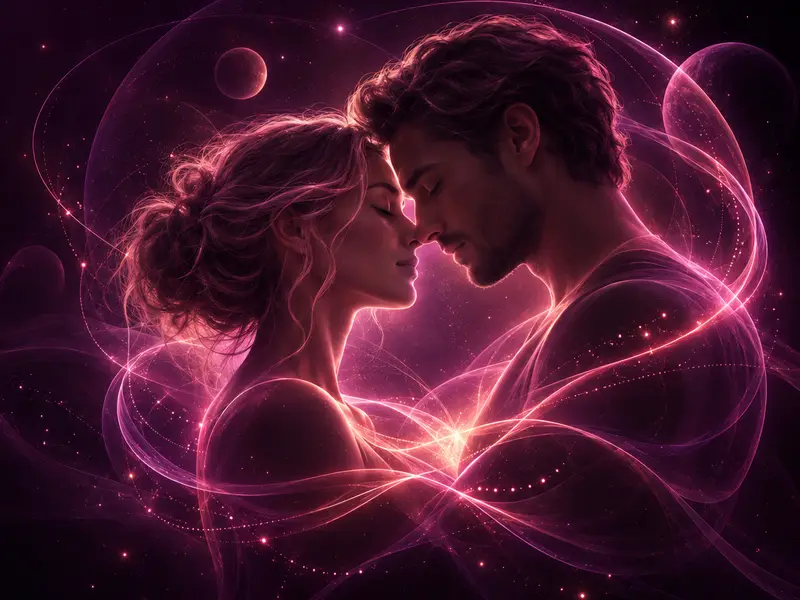
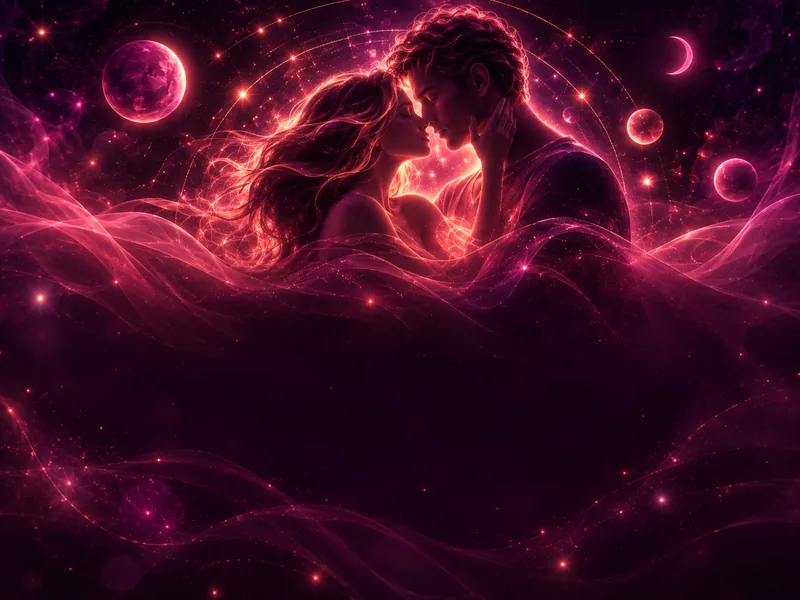
Showcase: new cover for Biohacking relationships, cover cache bump, sheet crop pinned to top for this cover, no meta line on not-yet programs

diff --git a/app.js b/app.js
@@ -1186,7 +1186,7 @@ function escapeHtml(s) {
 // ⚠ COVER_V ЖИВЁТ ВНУТРИ ЭТОГО ФАЙЛА, поэтому его бамп ТРЕБУЕТ бампа app.js?v= в
 // index.html. Иначе браузер отдаст закэшированный бандл со старым COVER_V и старую
 // картинку - счётчик обложек сам себя не доставит.
-const COVER_V = 5;
+const COVER_V = 6;
 // ICON_V здесь СОЗНАТЕЛЬНО НЕТ. Иконки плиток, медальон Подружки и аватар стоят
 // статикой в index.html и версионируются прямо в src (`icons/…png?v=N`). Константа
 // в JS их не касалась бы и стала бы вторым источником правды, который молча
@@ -2507,11 +2507,13 @@ function scPosterHtml(s) {
     ? '<span class="poster-badge poster-badge-free">' + escapeHtml(plurDays(free)) + " бесплатно</span>"
     : "";
   const lock = free ? "" : '<span class="poster-lock"><i class="ti ti-lock"></i></span>';
-  const meta = scNotYet(s) ? "скоро" : scDaysTotal(s) > 0 ? plurDays(scDaysTotal(s)) : (soon ? "скоро" : (s.is_new ? "идёт сейчас" : ""));
+  // У программы, которой ещё нет, строки под названием нет вовсе: «скоро» сказано в
+  // шторке, а двухстрочное название с подписью залезало на картинку (30.09).
+  const meta = scNotYet(s) ? "" : scDaysTotal(s) > 0 ? plurDays(scDaysTotal(s)) : (soon ? "скоро" : (s.is_new ? "идёт сейчас" : ""));
   return '<div class="poster' + (cover ? "" : " poster-blank") + '" data-sprint="' + escapeHtml(s.id) + '" role="button"' +
       (cover ? ' style="background-image: url(\'' + cover + '\')"' : "") + ">" +
     badge + lock +
-    '<div class="poster-info"><b>' + escapeHtml(s.title || "") + "</b><span>" + escapeHtml(meta) + "</span></div></div>";
+    '<div class="poster-info"><b>' + escapeHtml(s.title || "") + "</b>" + (meta ? "<span>" + escapeHtml(meta) + "</span>" : "") + "</div></div>";
 }
 
 // ===================== ШТОРКА ЗАМКА =====================
@@ -2561,7 +2563,7 @@ function openLockSheet(kind, payload) {
     const s = payload;
     const cover = coverUrl(s.cover_slug, "wide") || coverUrl(s.cover_slug, "poster");
     panel.innerHTML =
-      '<div class="lock-cover' + (cover ? "" : " poster-blank") + '"' +
+      '<div class="lock-cover' + (cover ? "" : " poster-blank") + '" data-cover="' + escapeHtml(s.cover_slug || "") + '"' +
         (cover ? ' style="background-image:url(\'' + cover + '\')"' : "") + '><span class="lock-grab"></span></div>' +
       '<div class="lock-body">' +
         '<div class="lock-kick">' + escapeHtml(scDaysTotal(s) > 0 ? plurDays(scDaysTotal(s)) + " · скоро" : "скоро") + "</div>" +
@@ -2583,7 +2585,7 @@ function openLockSheet(kind, payload) {
       : "скоро";
     const cover = coverUrl(s.cover_slug, "wide") || coverUrl(s.cover_slug, "poster");
     panel.innerHTML =
-      '<div class="lock-cover' + (cover ? "" : " poster-blank") + '"' +
+      '<div class="lock-cover' + (cover ? "" : " poster-blank") + '" data-cover="' + escapeHtml(s.cover_slug || "") + '"' +
         (cover ? ' style="background-image:url(\'' + cover + '\')"' : "") + '><span class="lock-grab"></span></div>' +
       '<div class="lock-body">' +
         '<div class="lock-kick">' + escapeHtml(kicker) + "</div>" +

diff --git a/style.css b/style.css
@@ -1097,6 +1097,9 @@ body.sc-open.has-mini { padding-bottom: calc(var(--sc-bar-h, 76px) + 80px + env(
 /* ШТОРКА ЗАМКА. Панель та же, что у шторок дома; внутри три разных содержимого. */
 .lock-panel { padding: 0 0 calc(24px + env(safe-area-inset-bottom, 0px)); overflow: hidden; }
 .lock-cover { position: relative; height: 210px; background: var(--hero-grad); background-size: cover; background-position: center; }
+/* Обложка «Биохакинга отношений»: головы у самого верха кадра, полоса 210 px по центру
+   их срезала. Только у неё кадр прижат к верху, остальные программы не тронуты. */
+.lock-cover[data-cover="relationships"] { background-position: center top; }
 .lock-cover::after { content: ""; position: absolute; inset: 0; background: linear-gradient(0deg, var(--menu-bg), rgba(23,18,26,0) 60%); }
 .lock-grab { position: absolute; top: 10px; left: 50%; margin-left: -20px; width: 40px; height: 5px; border-radius: 3px; background: rgba(255,255,255,.5); z-index: 2; }
 .lock-body { padding: 0 20px; margin-top: -26px; position: relative; display: flex; flex-direction: column; gap: 12px; }

diff --git a/index.html b/index.html
@@ -35,7 +35,7 @@
   <meta name="apple-mobile-web-app-status-bar-style" content="black-translucent">
   <meta name="apple-mobile-web-app-title" content="Ирена Био">
 
-  <link rel="stylesheet" href="style.css?v=79">
+  <link rel="stylesheet" href="style.css?v=80">
   <link rel="preconnect" href="https://fonts.googleapis.com">
   <link rel="preconnect" href="https://fonts.gstatic.com" crossorigin>
   <!-- Заголовки Playfair Display Medium, интерфейс Onest. У обоих есть кириллица
@@ -801,6 +801,6 @@
 
   <!-- supabase-js только для auth-экранов (пароль + гейт); чекаут работает без него -->
   <script src="https://cdn.jsdelivr.net/npm/@supabase/supabase-js@2/dist/umd/supabase.js"></script>
-  <script src="app.js?v=131"></script>
+  <script src="app.js?v=132"></script>
 </body>
 </html>
